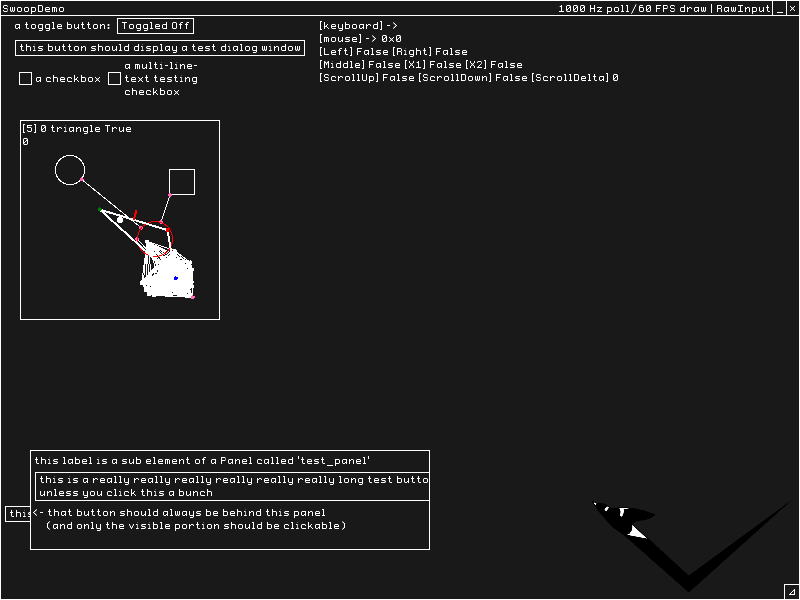
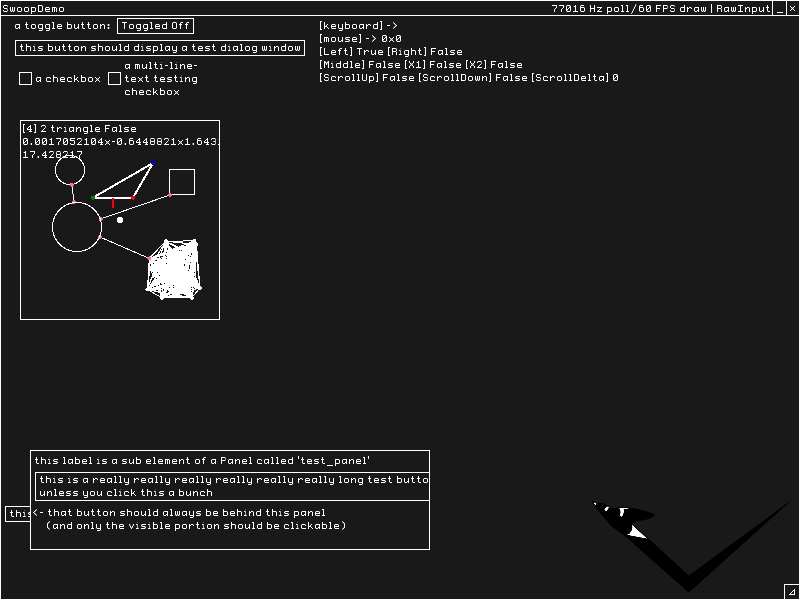
okay this time 2D GJK should be good
changed epsilon to be slightly bigger and added a few more "things are wrong" early exits to prevent weird floating point shenanigans

diff --git a/Swoop/GJK2D.cs b/Swoop/GJK2D.cs
@@ -23,7 +23,11 @@ namespace SwoopLib.Collision {
     }
 
     public static class GJK2D {
-        public const bool SAVE_SIMPLICES = false;
+        public const bool SAVE_SIMPLICES = true;
+        
+        const float EPSILON = 0.00001f;
+
+        const int MAX_ITERATIONS = 20;
 
         public struct gjk_result {
             public Shape2D? shape_A, shape_B;
@@ -151,7 +155,7 @@ namespace SwoopLib.Collision {
                     var ac_dir = Vector2.Normalize(triple_product(AB, BC, AC));
 
                     var abc = offset + (A + B) / 2;
-                    var ab_dir = Vector2.Normalize(-triple_product(AC, BC, AB));
+                    var ab_dir = Vector2.Normalize(triple_product(BC, AC, AB));
 
                     if (Vector2.Dot(ab_dir, AO) > Vector2.Dot(ac_dir, AO)) {
                         Drawing.line(abc, abc + (ab_dir * 10f), Color.Red, 2f);
@@ -233,26 +237,27 @@ namespace SwoopLib.Collision {
             float l_dist = float.MaxValue;
             int dist_count = 0;
 
-            while (iterations < 24) {
+            while (iterations < MAX_ITERATIONS) {
                 if (SAVE_SIMPLICES)
                     result.simplices.Add(simplex.copy());
 
                 iterations++;
 
                 simplex.add_new_point(A.support(simplex.direction), B.support(-simplex.direction));
+                simplex.iteration = iterations;
 
                 if (SAVE_SIMPLICES)
                     result.simplices.Add(simplex.copy());
 
                 if (simplex.stage == gjk_simplex.simplex_stage.line) {
                     //exit if A and B are touching
-                    if (Vector2.Distance(simplex.A, simplex.B) <= float.Epsilon) {
+                    if (Vector2.Distance(simplex.A, simplex.B) <= EPSILON) {
                         simplex.move_to_stage(spoint.B);
                         break;
                     }
 
                     //early exit if origin is on the A->B line
-                    if (closest_point_on_line(simplex.A, simplex.B, Vector2.Zero).Length() <= float.Epsilon) {
+                    if (closest_point_on_line(simplex.A, simplex.B, Vector2.Zero).Length() <= EPSILON) {
                         result.hit = true;
                         break;
                     }
@@ -270,45 +275,38 @@ namespace SwoopLib.Collision {
 
                 } else if (simplex.stage == gjk_simplex.simplex_stage.triangle) {
                     //exit if A and B or A and C are basically touching
-                    if (Vector2.Distance(simplex.A, simplex.B) <= float.Epsilon
-                        || Vector2.Distance(simplex.A, simplex.C) <= float.Epsilon) {
+                    if (Vector2.Distance(simplex.A, simplex.B) <= EPSILON
+                        || Vector2.Distance(simplex.A, simplex.C) <= EPSILON) {
                         simplex.move_to_stage(spoint.B, spoint.C);
                         break;
                     }
 
                     //exit if A is on BC
-                    if (closest_point_on_line(simplex.C, simplex.B, simplex.A).Length() <= float.Epsilon) {
+                    if (closest_point_on_line(simplex.C, simplex.B, simplex.A).Length() <= EPSILON) {
                         simplex.move_to_stage(spoint.B, spoint.C);
                         break;
                     }
 
                     var tb = triangle_barycentric(Vector2.Zero, simplex.A,simplex.B,simplex.C);
-                    
+
+                    //just in case
+                    if (float.IsInfinity(tb.u) || float.IsInfinity(tb.v) || float.IsInfinity(tb.w)) break;
+
                     //hit if origin is within triangle                    
                     if ((tb.u > 0 && tb.v > 0 && tb.w > 0) || (tb.u < 0 && tb.v < 0 && tb.w < 0)) {
                         result.hit = true;
                         break;
 
                     //otherwise find a new direction, either AB or AC, as A is always the newest, closest point  
-                    } else {                        
-                        //do a closest point calc and see if the new point added this iterationhas even moved us any closer
-                        closest_point(ref simplex, ref result);
-                        if (result.distance < l_dist) {
-                            l_dist = result.distance;
-                            dist_count = 0;
-
-                        //if the closest point hasn't changed, increase dist_count
-                        } else if (result.distance == l_dist) {
-                            dist_count++;
-                        }
-
-                        //been at the same distance for 2 triangle steps in a row, so exit                        
-                        if (dist_count == 2) { 
-                            break;
-                        }
+                    } else {
 
                         var ac_dir = Vector2.Normalize(triple_product(simplex.AB, simplex.BC, simplex.AC));
-                        var ab_dir = Vector2.Normalize(-triple_product(simplex.AC, simplex.BC, simplex.AB));
+                        var ab_dir = Vector2.Normalize(triple_product(simplex.BC, simplex.AC, simplex.AB));
+
+                        //also just in case
+                        if (ac_dir.contains_nan() || ab_dir.contains_nan()) {
+                            break;
+                        }
 
                         //move to AB or AC depending on which has the higher dot
                         if (Vector2.Dot(ab_dir, simplex.AO) >= Vector2.Dot(ac_dir, simplex.AO)) {
@@ -319,12 +317,28 @@ namespace SwoopLib.Collision {
                             simplex.move_to_stage(spoint.A, spoint.C);
                         }
                     }
-                }                
+                }
+
+                //do a closest point calc and see if the new point added this iteration has even moved us any closer
+                closest_point(ref simplex, ref result);
+                if (result.distance < l_dist) {
+                    l_dist = result.distance;
+                    dist_count = 0;
+
+                //if the closest point hasn't changed, increase dist_count
+                } else if (Math.Abs(result.distance - l_dist) <= EPSILON) {
+                    dist_count++;
+                }
+
+                //been at the same distance for 2 steps in a row, so exit                        
+                if (dist_count == 2) {
+                    break;
+                }
             }
 
-            if (!result.hit)
+            if (!result.hit) { 
                 closest_point(ref simplex, ref result);
-            else {
+            } else {
                 result.distance = 0;
             }
 

diff --git a/Swoop/UIElements/GJKTestPanel.cs b/Swoop/UIElements/GJKTestPanel.cs
@@ -5,6 +5,7 @@ using System.Text;
 using System.Threading.Tasks;
 using MGRawInputLib;
 using Microsoft.Xna.Framework;
+using Microsoft.Xna.Framework.Input;
 using SwoopLib;
 using SwoopLib.Collision;
 using SwoopLib.Shapes;
@@ -47,8 +48,13 @@ namespace SwoopLib.UIElements {
             if (GJK2D.SAVE_SIMPLICES) {
                 results[selected_shape].simplices[selected_simplex].draw(size.ToVector2() / 2f);
                 var selected = results[selected_shape].simplices[selected_simplex];
+                (float u, float v, float w) b = (0f, 0f, 0f);
+                
+                if (selected.stage == GJK2D.gjk_simplex.simplex_stage.triangle)
+                    b = Collision2D.triangle_barycentric(Vector2.Zero, selected.A, selected.B, selected.C);
+
                 Drawing.text(
-    $"[{selected_simplex}] {selected.iteration} {selected.stage.ToString()} {results[selected_shape].hit}\n{results
+    $"[{selected_simplex}] {selected.iteration} {selected.stage.ToString()} {results[selected_shape].hit}\n{b.u}x{b.v}x{b.w}\n{results
     [selected_shape].distance}", Vector2.One * 3f, Color.White);
             }
         }
@@ -77,7 +83,7 @@ namespace SwoopLib.UIElements {
                 if (Swoop.input_handler.just_pressed(Microsoft.Xna.Framework.Input.Keys.E)) {
                     selected_simplex++;
 
-                    if (selected_simplex > results[1].simplices.Count - 1) selected_simplex = results[1].simplices.Count - 1;
+                    if (selected_simplex > results[selected_shape].simplices.Count - 1) selected_simplex = results[selected_shape].simplices.Count - 1;
                 }
             }
 
@@ -95,7 +101,23 @@ namespace SwoopLib.UIElements {
                     else cursor.radius = 5;
                 }
             }
-            cursor.position = Input.cursor_pos.ToVector2() - position;
+
+            var p = Vector2.Zero;
+            if (Swoop.input_handler.is_pressed(Keys.Up)) {
+                p += -Vector2.UnitY;
+            }
+            if (Swoop.input_handler.is_pressed(Keys.Down)) {
+                p += Vector2.UnitY;
+            }
+            if (Swoop.input_handler.is_pressed(Keys.Left)) {
+                p += -Vector2.UnitX;
+            }
+            if (Swoop.input_handler.is_pressed(Keys.Right)) {
+                p += Vector2.UnitX;
+            }
+
+            cursor.position += p;
+            //cursor.position = Input.cursor_pos.ToVector2() - position;
 
             results.Clear();
             bool hit = false;

diff --git a/Swoop/Math.cs b/Swoop/Math.cs
@@ -12,6 +12,9 @@ namespace SwoopLib.Collision {
         public static Vector2 X_only(this Vector2 v) => new Vector2(v.X, 0);
         public static Vector2 Y_only(this Vector2 v) => new Vector2(0, v.Y);
 
+        public static bool contains_nan(this Vector2 v) => v.X == float.NaN || v.Y == float.NaN;
+        public static bool contains_nan(this Vector3 v) => v.X == float.NaN || v.Y == float.NaN || v.Z == float.NaN;
+
         public static float NextFloat(this Random r) => (float)r.NextDouble();
         public static float float_neg_one_to_one(this Random r) => (r.NextFloat() - 0.5f) * 2f;
 
@@ -47,8 +50,8 @@ namespace SwoopLib.Collision {
             float denom = f0 * f2 - f1 * f1;
             (float u, float v, float w) output = (0f,0f,0f);
 
-            output.v = (f2 * f3 - f1 * f4) / denom;
-            output.u = (f0 * f4 - f1 * f3) / denom;
+            output.u = (f2 * f3 - f1 * f4) / denom;
+            output.v = (f0 * f4 - f1 * f3) / denom;
             output.w = 1.0f - output.u - output.v;
 
             return output;
